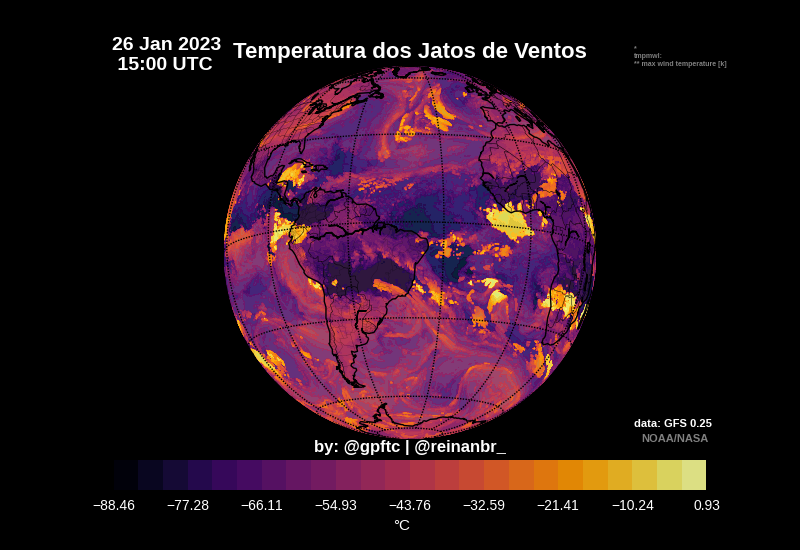
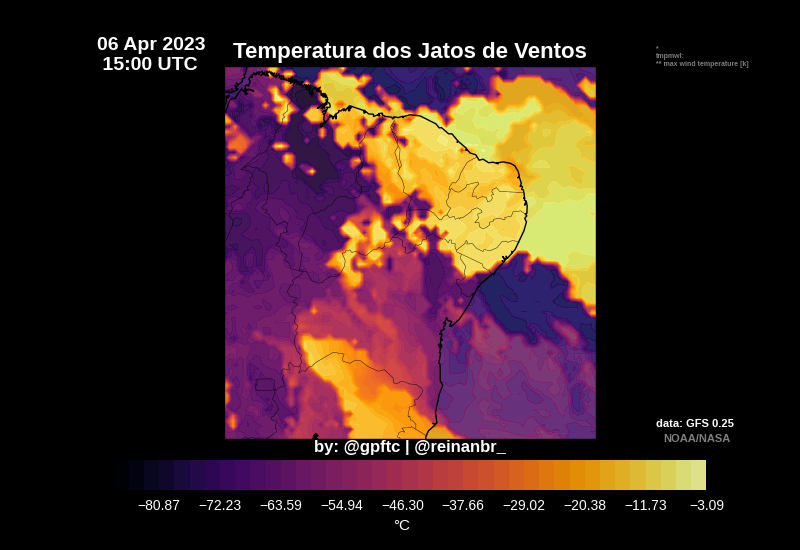
edit

diff --git a/noaawc/plot.py b/noaawc/plot.py
@@ -33,6 +33,7 @@ from kitano.logging import puts
 the function base and more
 important from it work
 '''
+
 plt.style.use('dark_background')
 
 @dataclass
@@ -57,14 +58,19 @@ class plot_global:
     key_noaa:str='tmpmwl'
     subtr_data:str=273,
     text_cb:str='ºC'
-    alpha:int=.9
+    alpha:float=.9
     author:str='@gpftc_ | @reinanbr_'
     level_data:int=25
+    resolution:str='c'
     keys:str = ''
     fillcontinents_colors:str = ''
     cmap:plt.cm = plt.cm.inferno
     ax:plt.subplot = plt.subplot(111)
     plt:plt=plt
+    
+    line_states:float=0.1
+    line_countries:float=0.35
+    
     xleft:int=None
     xright:int=None
     yup:int=None
@@ -119,7 +125,7 @@ class plot_global:
         self.m = Basemap(projection='ortho',
                          lat_0=self.loc_focus[0],
                          lon_0=self.loc_focus[1],
-                         resolution='c',llcrnrx=self.xleft, llcrnry=self.ydown, urcrnrx=self.xright, urcrnry=self.yup, 
+                         resolution=self.resolution,llcrnrx=self.xleft, llcrnry=self.ydown, urcrnrx=self.xright, urcrnry=self.yup, 
 )
         #self.m.bluemarble(scale=.5)
         
@@ -139,8 +145,8 @@ class plot_global:
         #self.m.bluemarble()
         self.m.drawcoastlines()
         #self.m.drawmapboundary()#fill_color='aqua')
-        self.m.drawstates(linewidth=0.1)
-        self.m.drawcountries(linewidth=0.35)
+        self.m.drawstates(linewidth=self.line_states)
+        self.m.drawcountries(linewidth=self.line_countries)
         #self.m.drawcountries(linewidth=0.25)
         
         #m.drawmapboundary(fill_color='aqua')
@@ -157,13 +163,13 @@ class plot_global:
         self.cbar.ax.set_title(f'by: {self.author}',fontweight='bold')
         
         #xn2,yn2=m(-9.52,-40.61)
-        self.t = self.plt.text(-0.3,0.99,self.date_text, transform=self.ax.transAxes,
+        self.t = self.plt.text(-0.34,0.99,self.date_text, transform=self.ax.transAxes,
                     color='white', fontweight='bold',fontsize=14)
-        self.t = self.plt.text(1.1,1,f'*\n{self.key_noaa}:\n{self.keys[self.key_noaa]}',transform=self.ax.transAxes,
+        self.t = self.plt.text(1.16,1,f'*\n{self.key_noaa}:\n{self.keys[self.key_noaa]}',transform=self.ax.transAxes,
                     color='grey', fontweight='bold',fontsize=5)
-        self.t = self.plt.text(1.1,0.03,'data: GFS 0.25', transform=self.ax.transAxes,
+        self.t = self.plt.text(1.16,0.03,'data: GFS 0.25', transform=self.ax.transAxes,
                     color='white', fontweight='bold',fontsize=8)
-        self.t = self.plt.text(1.12,-0.01,'NOAA/NASA', transform=self.ax.transAxes,
+        self.t = self.plt.text(1.18,-0.01,'NOAA/NASA', transform=self.ax.transAxes,
                     color='grey', fontweight='bold',fontsize=8)
         #t.set_bbox(dict(facecolor='red', alpha=0.81, edgecolor='black'))
         
@@ -238,6 +244,5 @@ class plot_global:
             self.plt.show()
         self.plt.cla()
         self.plt.clf()
-
 
 

diff --git a/test_plot.py b/test_plot.py
@@ -5,7 +5,7 @@ import matplotlib.pyplot as plt
 plt.style.use('dark_background')
 cmap = 'inferno'
 
-date_base = '26/01/2023'
+date_base = '06/04/2023'
 dn = gnd(date=date_base)
 indice = 5
 
@@ -18,11 +18,13 @@ pg.key_noaa='tmpmwl'
 pg.indice=indice
 
 pg.loc_focus=(-9.43847,-40.5052)
+pg.zoom(1,-1,-1,1)
 
 pg.text_cb='°C'
 pg.author='@gpftc | @reinanbr_'
 pg.cmap = cmap
 
-
-
+pg.resolution = 'l'
+pg.level_data = 40
+pg.line_states = .3
 pg.render(show=True)

diff --git a/test_plot_cmap.py b/test_plot_cmap.py
@@ -9,7 +9,7 @@ plt.style.use('dark_background')
 
 
 
-date_base = '13/01/2023'
+date_base = '03/04/2023'
 
 main.set_date(date_base)
 dn = gnd()
@@ -38,5 +38,5 @@ for cmap in cmaps:
     pg.cmap = cmap
 
     #pg.date = '10/01/2023'
-    pg.render(show=False)
+    pg.render(show=True)
     i=i+1
